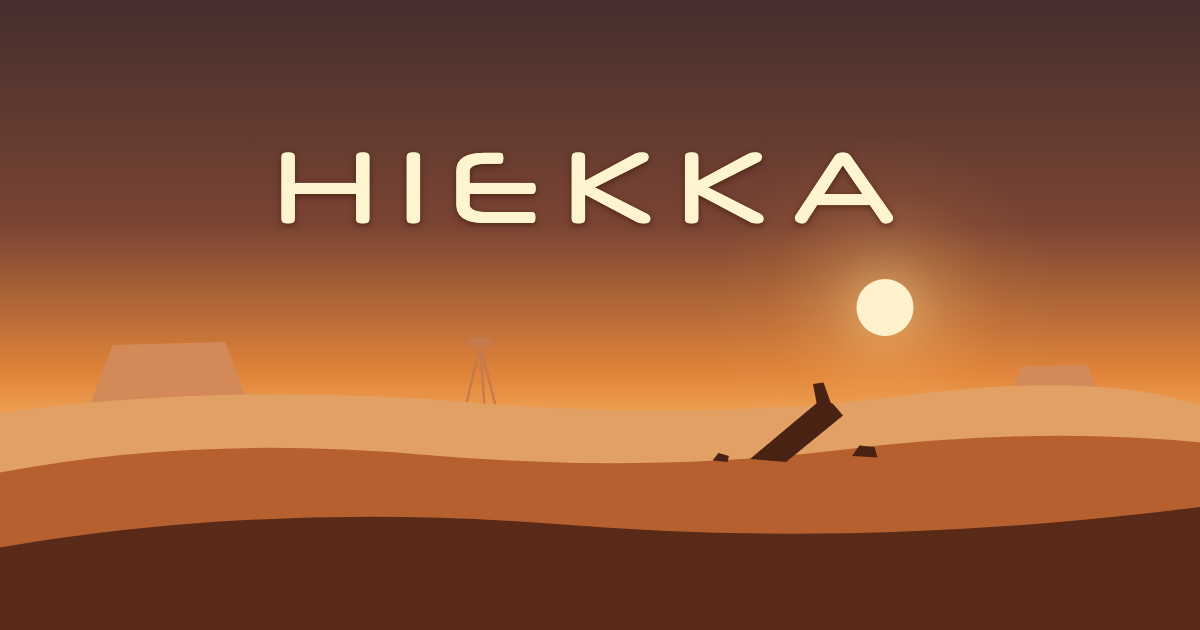
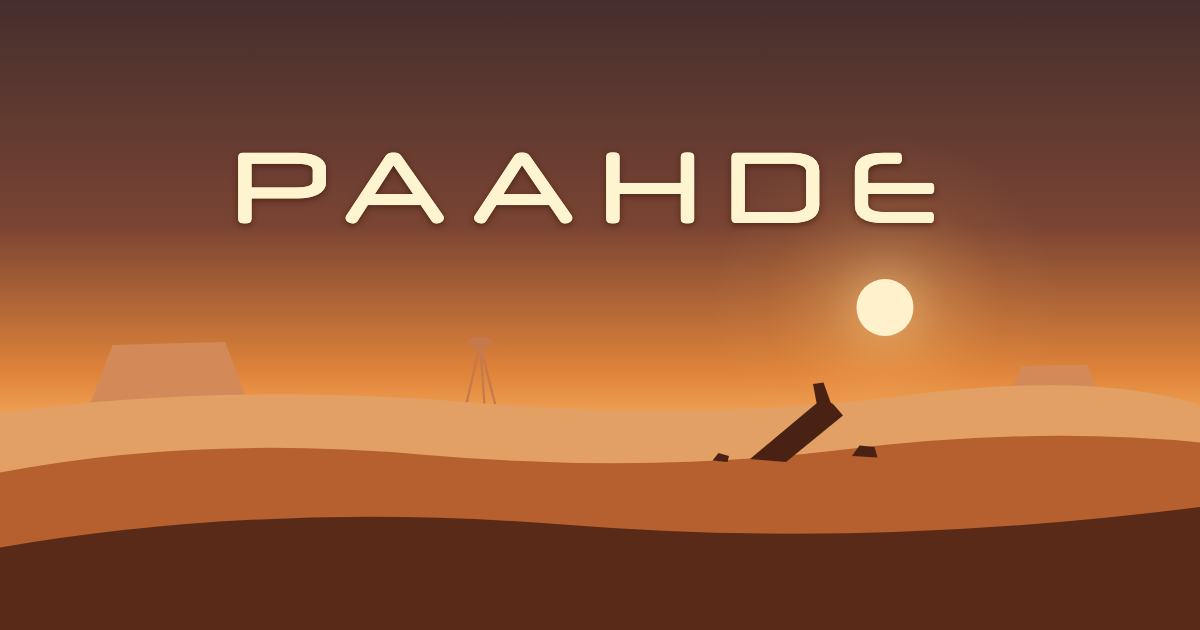
Rename the game to Paahde: title, menu, landing, prologue card, manifest and link preview

Changed region(s): [[0.185, 0.2413, 0.8017, 0.3619]]

diff --git a/index.html b/index.html
@@ -3,7 +3,7 @@
   <head>
     <meta charset="UTF-8" />
     <meta name="viewport" content="width=device-width, initial-scale=1.0" />
-    <title>Hiekka</title>
+    <title>Paahde</title>
     <meta name="description" content="A multiplayer survival game in a burning desert: salvage the machines, find water, bring down the giants. Plays in the browser." />
     <meta name="theme-color" content="#3a2a2c" />
     <meta name="color-scheme" content="dark" />
@@ -15,14 +15,14 @@
     <link rel="canonical" href="https://herkku.org/dadajam/" />
     <!-- Link previews need absolute URLs. -->
     <meta property="og:type" content="website" />
-    <meta property="og:site_name" content="Hiekka" />
-    <meta property="og:title" content="Hiekka" />
+    <meta property="og:site_name" content="Paahde" />
+    <meta property="og:title" content="Paahde" />
     <meta property="og:description" content="A multiplayer survival game in a burning desert: salvage the machines, find water, bring down the giants." />
     <meta property="og:url" content="https://herkku.org/dadajam/" />
     <meta property="og:image" content="https://herkku.org/dadajam/og.png" />
     <meta property="og:image:width" content="1200" />
     <meta property="og:image:height" content="630" />
-    <meta property="og:image:alt" content="Hiekka: a low sun over orange dunes, a wreck in the sand and a walker far off" />
+    <meta property="og:image:alt" content="Paahde: a low sun over orange dunes, a wreck in the sand and a walker far off" />
     <meta name="twitter:card" content="summary_large_image" />
     <link rel="preload" href="./fonts/neuropol.woff2" as="font" type="font/woff2" crossorigin />
     <style>

diff --git a/shared/text.ts b/shared/text.ts
@@ -13,8 +13,8 @@ export const lower = (label: string) => (/^[A-Z]{2}/.test(label) ? label : label
 const en = {
   game: {
     /** The game's name as it's shown in the menu and on the landing page (and, capitalised, the browser tab). */
-    name: 'hiekka',
-    title: 'Hiekka',
+    name: 'paahde',
+    title: 'Paahde',
   },
 
   // ---- Names of things ----------------------------------------------------------------------------------------
